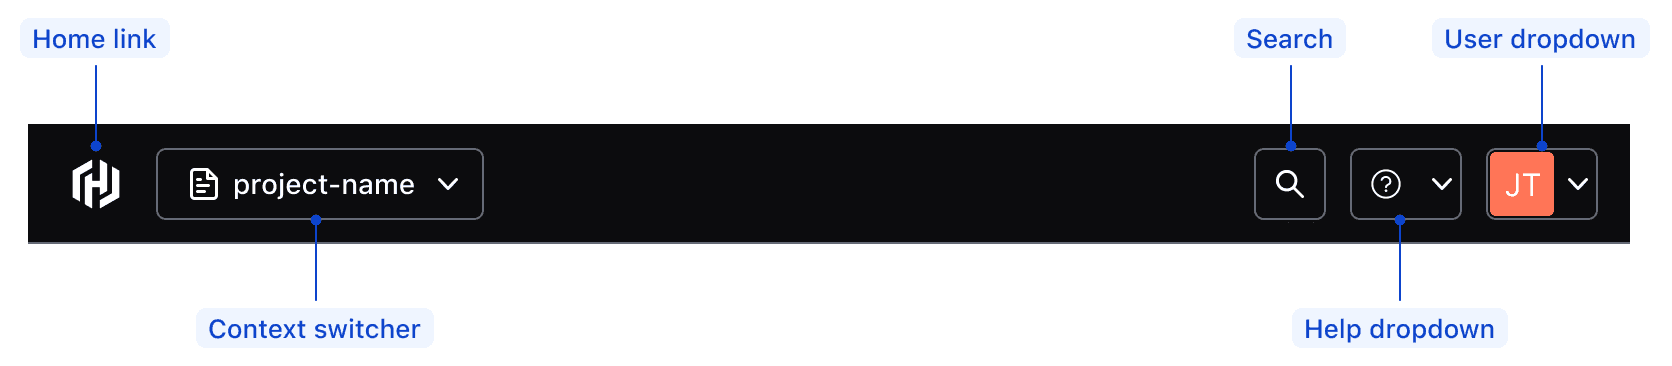
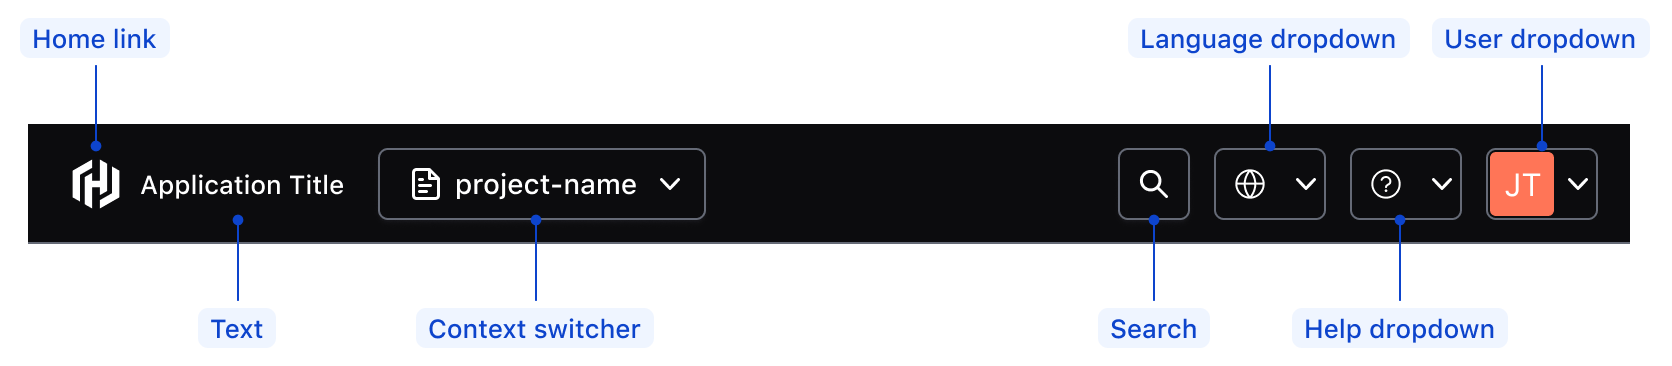
Refining spec content, adding text property

diff --git a/website/docs/components/app-header/partials/specifications/anatomy.md b/website/docs/components/app-header/partials/specifications/anatomy.md
@@ -8,6 +8,7 @@
 |------------------|-------------------------------------------|
 | **Global**       |                                           |
 | Home link        | Required; supports multiple product logos |
+| Text             | Optional; displays the name of the application |
 | Context switcher | Optional                                  |
 | **Utilities**    |                                           |
 | Help dropdown    | Optional, but highly recommend ([WCAG guidelines](https://www.w3.org/WAI/WCAG22/Understanding/consistent-help.html))     |
@@ -21,6 +22,7 @@
 | Element          | Usage                                     |
 |------------------|-------------------------------------------|
 | Home link        | Required; supports multiple product logos |
+| Text             | Optional; displays the name of the application |
 | Menu button      | Required                                  |
 | Context switcher | Optional                                  |
 | **Menu**         |                                           |
@@ -30,12 +32,22 @@
 
 ### Theme selection
 
+![Anatomy of the Theme Selection pattern in the App Header](/assets/components/app-header/app-header-anatomy-theme-selection.png)
+
 | Element | Usage |
 |---------|-------|
 | User settings | Application-specific, generally consists of user/account settings and authentication settings |
 | Title | Labels the theme selection in the menu. Uses the `ListItem::Title` element. |
-| Theme options | An array of options using the `ListItem::Checkmark` component. |
+| Theme options | An array of theme options using the `ListItem::Checkmark` component. |
 | Active theme | Indicates the current/selected theme using the checked `ListItem::Checkmark`. |
 
 ### Language selection
 
+![Anatomy of the Language Selection pattern in the App Header](/assets/components/app-header/app-header-anatomy-language-selection.png)
+
+| Element | Usage |
+|---------|-------|
+| Language selection Dropdown | Dedicated entry point in the App Header |
+| Title | Labels the language selection in the menu. Uses the `ListItem::Title` element. |
+| Language options | An array of language options using the `ListItem::Checkmark` component. |
+| Active language | Indicates the current/selected theme using the checked `ListItem::Checkmark` |
